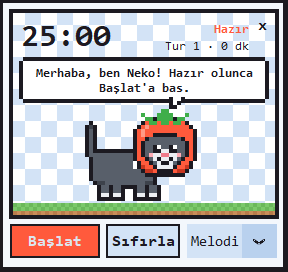
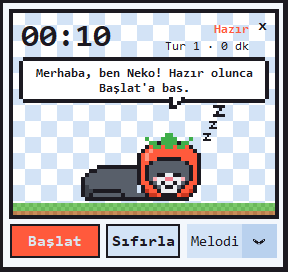
Odaklanmada Neko laptopta çalışsın
Odaklanma sırasında Neko yere oturup laptopta çalışıyor: patisi
klavyede inip kalkıyor, ekranda kod satırları yazılıyor. Açılışta,
duraklatınca ve mola bitince uyuyor. README görselleri güncellendi.

Changed region(s): [[0.2812, 0.3824, 0.7812, 0.7647], [0.0625, 0.0882, 0.2188, 0.1765], [0.25, 0.0882, 0.3438, 0.1765]]

diff --git a/kedi.py b/kedi.py
@@ -16,7 +16,12 @@ RENKLER = {
     "S": "#ffffff",
     "U": "#5aa9f0",
     "u": "#bfe1ff",
+    "E": "#2b3a55",
+    "M": "#c9ced6",
+    "m": "#9aa1ad",
 }
+
+KOD_RENKLERI = ["#7ee787", "#ff9ac1", "#79c0ff", "#ffd479"]
 
 ARKA_PLAN = "#f3f7fc"
 DAMA_RENKLERI = ["#ffffff", "#d3e3f6"]
@@ -114,6 +119,72 @@ UYKU_GOVDE_2 = UYKU_GOVDE_1[:8] + [
 
 UYKU_KAFA = KAFA_GOZ_KAPALI[:16] + ["KKKKKKKKKKKKK..."]
 
+OTURAN_KAFA = KAFA[:15] + [".KDDRKKKKKKRDDK.", "..KKKKKKKKKKKK.."]
+OTURAN_KAFA_GOZ_KAPALI = KAFA_GOZ_KAPALI[:15] + OTURAN_KAFA[15:]
+
+OTURAN_GOVDE = [
+    "....KKKKKKKKKK......",
+    "...KOOOOOOOOOOK.....",
+    "..KOOOOOOOOOOooK....",
+    "..KOOOOOOOOOOoooK...",
+    ".KOOOOOOOOOOOoooK...",
+    ".KOOOOOOOOOOOOooK...",
+    "KOOOOOOOOOOOOOOOK...",
+    "KOOOOOOOOOOOOOOOK...",
+    "KBOOOOOOOOOOOOOOK...",
+    "KKKKKKKKKKKKKKKKK...",
+]
+
+OTURAN_KUYRUK_1 = [
+    ".K....",
+    "KBK...",
+    "KOK...",
+    "KOKKKK",
+    "KOOOOO",
+    "KKKKKK",
+]
+
+OTURAN_KUYRUK_2 = [
+    "......",
+    "KK....",
+    "KBK...",
+    "KOKKKK",
+    "KOOOOO",
+    "KKKKKK",
+]
+
+KOL_ASAGIDA = [
+    "KKKKKKK...",
+    "OOOOOOOKK.",
+    "KKKKKKKooK",
+]
+
+KOL_YUKARIDA = [
+    "KKKKKKKKK.",
+    "OOOOOOOooK",
+    "KKKKKKKKK.",
+]
+
+LAPTOP = [
+    "..KKKKKKKKKKKK..",
+    "..KEEEEEEEEEEK..",
+    "..KEEEEEEEEEEK..",
+    "..KEEEEEEEEEEK..",
+    "..KEEEEEEEEEEK..",
+    "..KEEEEEEEEEEK..",
+    "..KEEEEEEEEEEK..",
+    "..KKKKKKKKKKKK..",
+    ".KMMMMMMMMMMMMK.",
+    "KMmMmMmMmMmMmMMK",
+    "KKKKKKKKKKKKKKKK",
+]
+
+# (girinti, uzunluk)
+KOD_SATIRLARI = [(0, 6), (1, 7), (1, 4), (2, 6), (1, 5), (0, 3)]
+
+CALISMA_GENISLIK = 39
+CALISMA_YUKSEKLIK = 26
+
 
 def yan_yana(sol, sag):
     return [sol_satir + sag_satir for sol_satir, sag_satir in zip(sol, sag)]
@@ -160,7 +231,7 @@ class Kedi:
         self.yukseklik = yukseklik
         self.balon_y = balon_y
 
-        self.durum = "bekle"
+        self.durum = "uyku"
         self.x = genislik / 2
         self.zemin_y = yukseklik - 4 * P
         self.yon = 1
@@ -198,6 +269,8 @@ class Kedi:
 
         if self.durum == "uyku":
             self._uyuyan_kedi()
+        elif self.durum == "calisma":
+            self._calisan_kedi()
         elif self.durum == "mola":
             self._mola_hareketi()
         else:
@@ -247,6 +320,46 @@ class Kedi:
             zy = self.zemin_y - 17 * P - ilerleme * 10 * P
             boyut = 2 if ilerleme < 0.5 else 3
             self._sprite_ciz(Z_HARFI, zx, zy, piksel=boyut, ortala=False)
+
+    def _calisan_kedi(self):
+        x0 = int((self.x - CALISMA_GENISLIK * P / 2) // P) * P
+        y0 = self.zemin_y - CALISMA_YUKSEKLIK * P
+
+        def parca(sprite, sutun, satir):
+            self._sprite_ciz(sprite, x0 + sutun * P, y0 + satir * P, ortala=False)
+
+        kuyruk = OTURAN_KUYRUK_1 if (self.kare // 15) % 2 == 0 else OTURAN_KUYRUK_2
+        kafa = OTURAN_KAFA_GOZ_KAPALI if self.kare % 80 < 3 else OTURAN_KAFA
+        tikliyor = self.kare % 7 in (0, 1) or self.kare % 11 == 0
+        kol = KOL_YUKARIDA if tikliyor else KOL_ASAGIDA
+
+        parca(kuyruk, 0, 20)
+        parca(OTURAN_GOVDE, 3, 16)
+        parca(kafa, 5, 0)
+        parca(LAPTOP, 23, 15)
+        self._ekran_ciz(x0 + 26 * P, y0 + 16 * P)
+        parca(kol, 18, 21)
+
+    def _ekran_ciz(self, x, y):
+        toplam = sum(uzunluk for _, uzunluk in KOD_SATIRLARI)
+        kalan = (self.kare // 3) % (toplam + 15)
+        imlec_x, imlec_y = x + P, y
+
+        for i, (girinti, uzunluk) in enumerate(KOD_SATIRLARI):
+            if kalan <= 0:
+                break
+            n = min(uzunluk, kalan)
+            kalan -= n
+            sx = x + (girinti + 1) * P
+            sy = y + i * P
+            self.tuval.create_rectangle(sx, sy + 1, sx + n * P, sy + 1 + P // 2,
+                                        fill=KOD_RENKLERI[i % len(KOD_RENKLERI)],
+                                        outline="", tags=HAREKETLI)
+            imlec_x, imlec_y = sx + n * P, sy
+
+        if (self.kare // 8) % 2 == 0:
+            self.tuval.create_rectangle(imlec_x, imlec_y + 1, imlec_x + P // 2, imlec_y + P,
+                                        fill="white", outline="", tags=HAREKETLI)
 
     def _sprite_ciz(self, sprite, orta_x, alt_y, piksel=P, ortala=True):
         genislik = len(sprite[0]) * piksel
@@ -320,7 +433,11 @@ class Kedi:
         self.tuval.create_rectangle(sol, ust + P, sag, alt - P, fill=k, **e)
         self.tuval.create_rectangle(sol + P, ust + P, sag - P, alt - P, fill="white", **e)
 
-        kuyruk_x = max(sol + 3 * P, min(sag - 6 * P, self.x + 7 * P * self.yon))
+        if self.durum == "calisma":
+            hedef = self.x - 7 * P
+        else:
+            hedef = self.x + 7 * P * self.yon
+        kuyruk_x = max(sol + 3 * P, min(sag - 6 * P, hedef))
         eski_yon = self.yon
         self.yon = 1
         self._sprite_ciz(BALON_KUYRUGU, kuyruk_x, alt - P, ortala=False)

diff --git a/main.py b/main.py
@@ -189,8 +189,8 @@ class NekodoroUygulamasi(ctk.CTk):
     def baslat_duraklat(self):
         if self.calisiyor_mu:
             self._durdur()
-            self.kedi.durum_degistir("bekle")
-            self.kedi.konus("Mola mı? Bekliyorum...")
+            self.kedi.durum_degistir("uyku")
+            self.kedi.konus("Zzz... Devam'a basınca uyanırım.")
         else:
             if self.asama == "hazir":
                 self.asama = "calisma"
@@ -206,7 +206,7 @@ class NekodoroUygulamasi(ctk.CTk):
         self._durdur()
         self.asama = "hazir"
         self.kalan_saniye = CALISMA_SURESI
-        self.kedi.durum_degistir("bekle")
+        self.kedi.durum_degistir("uyku")
         self.kedi.konus("Hazır olunca Başlat'a bas.")
         self._ekrani_guncelle()
 
@@ -249,12 +249,12 @@ class NekodoroUygulamasi(ctk.CTk):
             self.calisiyor_mu = False
             self.asama = "hazir"
             self.kalan_saniye = CALISMA_SURESI
-            self.kedi.durum_degistir("bekle")
+            self.kedi.durum_degistir("uyku")
             self.kedi.konus("Mola bitti! Hazırsan yeni bir tur başlatalım.")
 
     def _kediyi_asamaya_gore_ayarla(self):
         if self.asama == "calisma":
-            self.kedi.durum_degistir("uyku")
+            self.kedi.durum_degistir("calisma")
             self.kedi.sus()
         else:
             self.kedi.durum_degistir("mola")

diff --git a/README.md b/README.md
@@ -4,11 +4,12 @@ Ekranın köşesinde duran, domates başlıklı piksel bir kediyle Pomodoro saya
 
 <p align="center">
   <img src="gorseller/neko.png" alt="Nekodoro" width="288">
+  <img src="gorseller/calisma.png" alt="Odaklanma" width="288">
   <img src="gorseller/mola.png" alt="Yürüyüş molası" width="288">
   <img src="gorseller/su.png" alt="Su hatırlatması" width="288">
 </p>
 
-- **25 dakika odaklanma:** Neko uyur.
+- **25 dakika odaklanma:** Neko da laptopunun başında seninle çalışır. Duraklatınca uyur.
 - **5 dakika mola:** Süre dolunca Neko uyanır, ses çalar ve seni kalkıp yürümeye çağırır. Molada o da yürür, zıplar.
 - **Su hatırlatması:** Her 30 dakikalık çalışmada su içmeni hatırlatır.
 - **Tur ve toplam süre:** Kaçıncı turda olduğunu ve toplam ne kadar çalıştığını gösterir.
